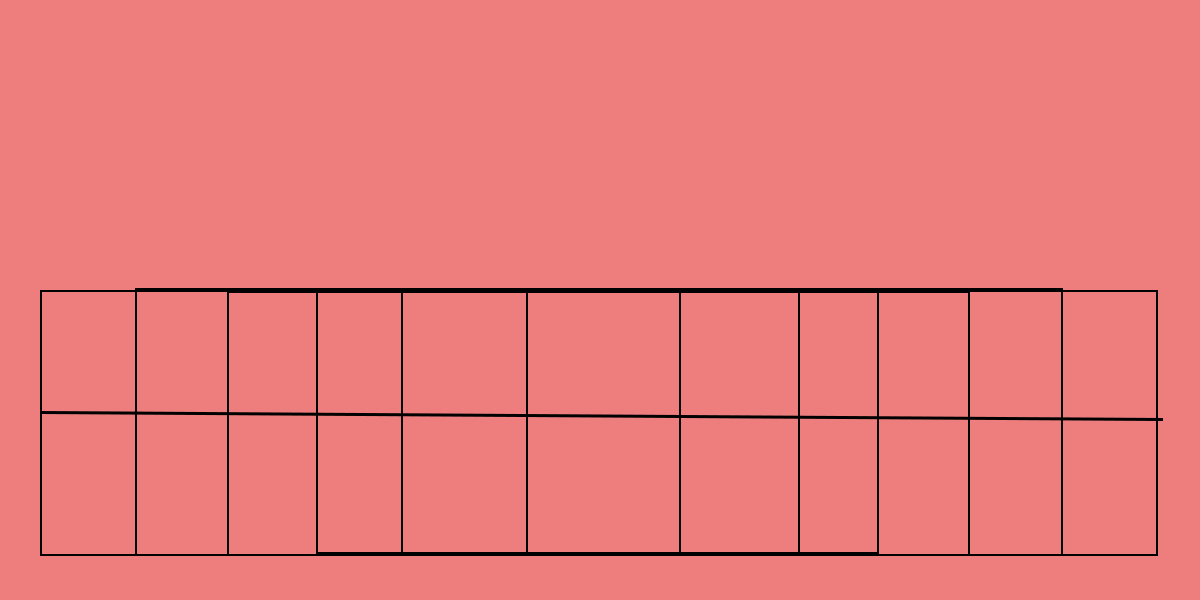
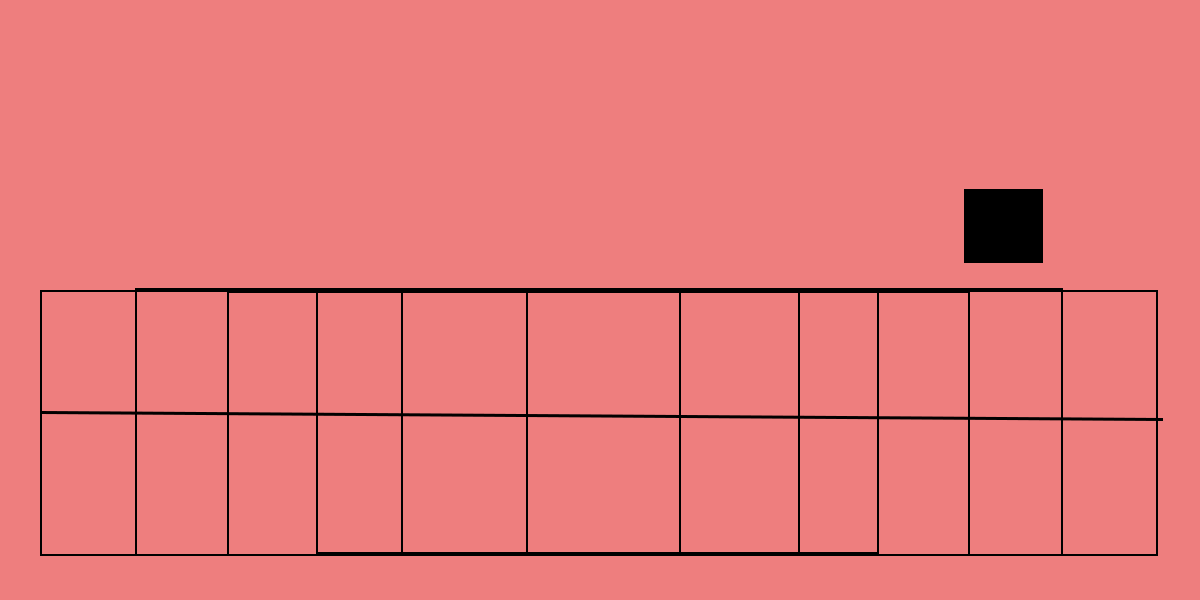
can combine pulley with sturdy Anchor to fix to tree

Changed region(s): [[0.8017, 0.3, 0.8942, 0.45]]

diff --git a/events.js b/events.js
@@ -113,6 +113,34 @@ async function combineRopeAndHook(blank, dialogueString, blank2, blank3) {
     await showText(dialogueString, getColorTextPlayer());
 }
 
+async function combinePulleyAndSturdyAnchor(blank, dialogueString, blank2, blank3) { //make sure to draw anchor on bg aswell!
+    let gridData = getGridData();
+    const objectSturdyAnchor = 'objectSturdyAnchor';
+    removeObjectFromEnvironment(objectSturdyAnchor);
+
+    await showText(dialogueString, getColorTextPlayer());
+
+    const gridPositionX = 65;
+    const gridPositionY = 20;
+
+    const offsetX = getObjectData().objects['objectPulleyWheel'].offset.x * getCanvasCellWidth();
+    const offsetY = getObjectData().objects['objectPulleyWheel'].offset.x * getCanvasCellHeight();
+
+    const offSetAdjustmentX = 0;
+    const offSetAdjustmentY = 0;
+
+    const desiredVisualPositionX = Math.floor(gridPositionX * getCanvasCellWidth()) + offsetX + offSetAdjustmentX;
+    const desiredVisualPositionY = Math.floor(gridPositionY * getCanvasCellHeight())  + offsetY + offSetAdjustmentY;
+
+    setAnimationInProgress(true);
+    setPreAnimationGridState(gridData, 'objectPulleyWheel', true);
+    setObjectData(`objectPulleyWheel`, `visualPosition.x`, desiredVisualPositionX);
+    setObjectData(`objectPulleyWheel`, `visualPosition.y`, desiredVisualPositionY);
+    setObjectData(`objectPulleyWheel`, `dimensions.width`, 25);
+    setObjectData(`objectPulleyWheel`, `dimensions.height`, 15);
+    showHideObjectAndMakeHoverable('s2', 'objectPulleyWheel', true);
+}
+
 async function giveCarrotToDonkey(npcAndSlot, blank, realVerbUsed, special) {
     const gridData = getGridData();
     const objectId = 'objectCarrot';

diff --git a/handleCommands.js b/handleCommands.js
@@ -139,8 +139,8 @@ function pickUpItem(objectId, quantity, verb, dialogueString) {
     addItemToInventory(objectId, quantity);
 
     //DEBUG ZONE
-    addItemToInventory('objectDonkeyRope', 1);
-    addItemToInventory('objectParrotHook', 1);
+    addItemToInventory('objectPulleyWheel', 1);
+    // addItemToInventory('objectParrotHook', 1);
     //
 
     console.log(getPlayerInventory());
